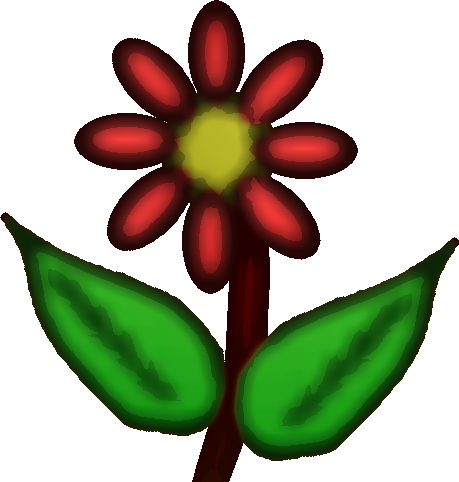
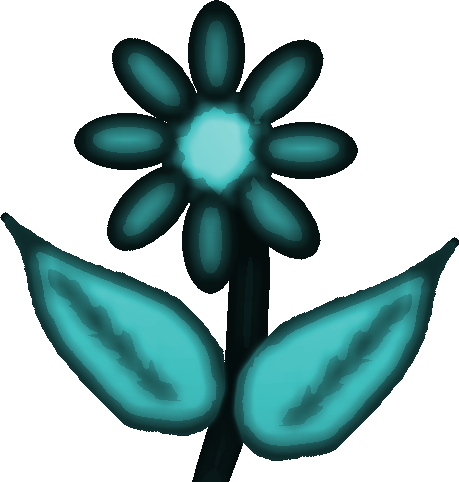
Zombie

diff --git a/public/game.js b/public/game.js
@@ -1,14 +1,15 @@
 class Necro extends Phaser.Scene {
 
         plantTextures = [
-                'red', 'green', 'blue',
-                'red', 'green', 'blue',
+                'red', 'yellow', 'blue',
+                'red', 'yellow', 'blue',
         ]
 
         preload() {
                 this.load.image('red', 'red.png')
-                this.load.image('green', 'green.png')
+                this.load.image('yellow', 'yellow.png')
                 this.load.image('blue', 'blue.png')
+                this.load.image('rat', 'rat.png')
                 this.load.image('syringe', 'machine.png')
                 this.load.image('needle', 'needle.png')
                 this.load.image('room', 'room.png')
@@ -18,19 +19,20 @@ class Necro extends Phaser.Scene {
         create() {
                 const syringe = new Syringe({
                         scene: this,
-                        x: config.width - config.width / 8,
+                        x: config.width - config.width / 4 + 25,
                         y: config.height / 2,
                         texture: 'syringe',
                         plantTextures: this.plantTextures
                 }).setScale(2)
                 const garden = new Garden({
                         scene: this,
-                        x: config.width / 2,
-                        y: config.height / 2,
+                        x: config.width / 3,
+                        y: config.height / 4 + 15,
                         texture: 'room',
                         outputSyringe: syringe,
                         plantTextures: this.plantTextures
-                })
+                }).setScale(0.75)
+
                 this.add.existing(syringe)
                 this.add.existing(garden)
         }
@@ -41,13 +43,21 @@ class Syringe extends Phaser.GameObjects.Sprite {
         needle
         fluid = []
         fluidSprites = []
+        corpsePos = {
+                x: this.x + 15,
+                y: this.y + 240
+        }
         maxSize = 5
         sections = [-30, 30, 90, 150, 210]
 
         constructor(config) {
                 super(config.scene, config.x, config.y, config.texture)
                 this.config = config
-                this.needle = this.scene.add.image(this.x + 15, this.y + 50, 'needle')
+                this.needle = this.scene.add.image(this.corpsePos.x, this.y + 50, 'needle')
+                this.corpse = this.scene.add.image(
+                        this.corpsePos.x, this.corpsePos.y, 'rat'
+                ).setScale(2)
+                this.corpse.angle = 180
         }
 
         fill(color) {
@@ -68,24 +78,37 @@ class Syringe extends Phaser.GameObjects.Sprite {
         fire() {
                 this.fluidSprites.forEach((s) => s.destroy(true))
                 this.needle.y += 100
+                this.corpse.visible = false
                 const zombie = new Zombie({
                         scene: this.config.scene,
-                        x: config.width / 2,
-                        y: config.height - config.height / 8,
-                        texture: '',
+                        x: this.corpsePos.x,
+                        y: this.corpsePos.y,
+                        texture: 'rat',
                         fluid: this.fluid
-                })
+                }).setScale(2)
+                this.scene.add.existing(zombie)
         }
 }
 
 class Zombie extends Phaser.GameObjects.Sprite {
         constructor(config) {
                 super(config.scene, config.x, config.y, config.texture)
-                console.log(this.parseFluids(config.fluid))
+                this.inputData = this.parseInput(config.fluid)
+                this.addEffects(this.inputData)
         }
 
-        parseFluids(fluid) {
-                return fluid
+        addEffects(data) {
+                console.log(data)
+                // if (data['yellow']) this.postFx.addBloom()
+        }
+
+        parseInput(fluid) {
+                const fluidData = {}
+                fluid.forEach((f) => {
+                        if (f in fluidData) fluidData[f] += 1
+                        else fluidData[f] = 1
+                })
+                return fluidData
         }
 }
 
@@ -138,7 +161,7 @@ class Garden extends Phaser.GameObjects.Sprite {
 }
 
 const config = {
-        width: 800,
+        width: 600,
         height: 600,
         backgroundColor: '#405fa0',
         type: Phaser.AUTO,
